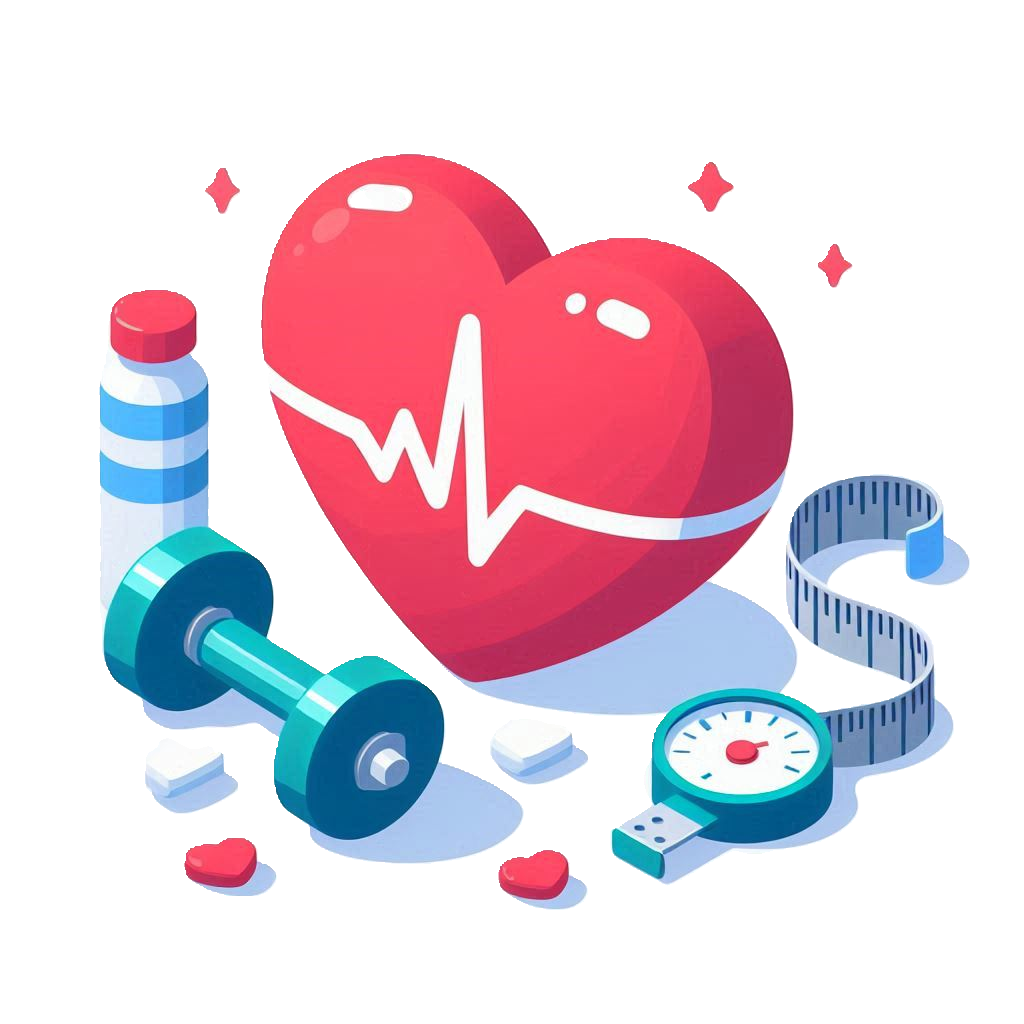
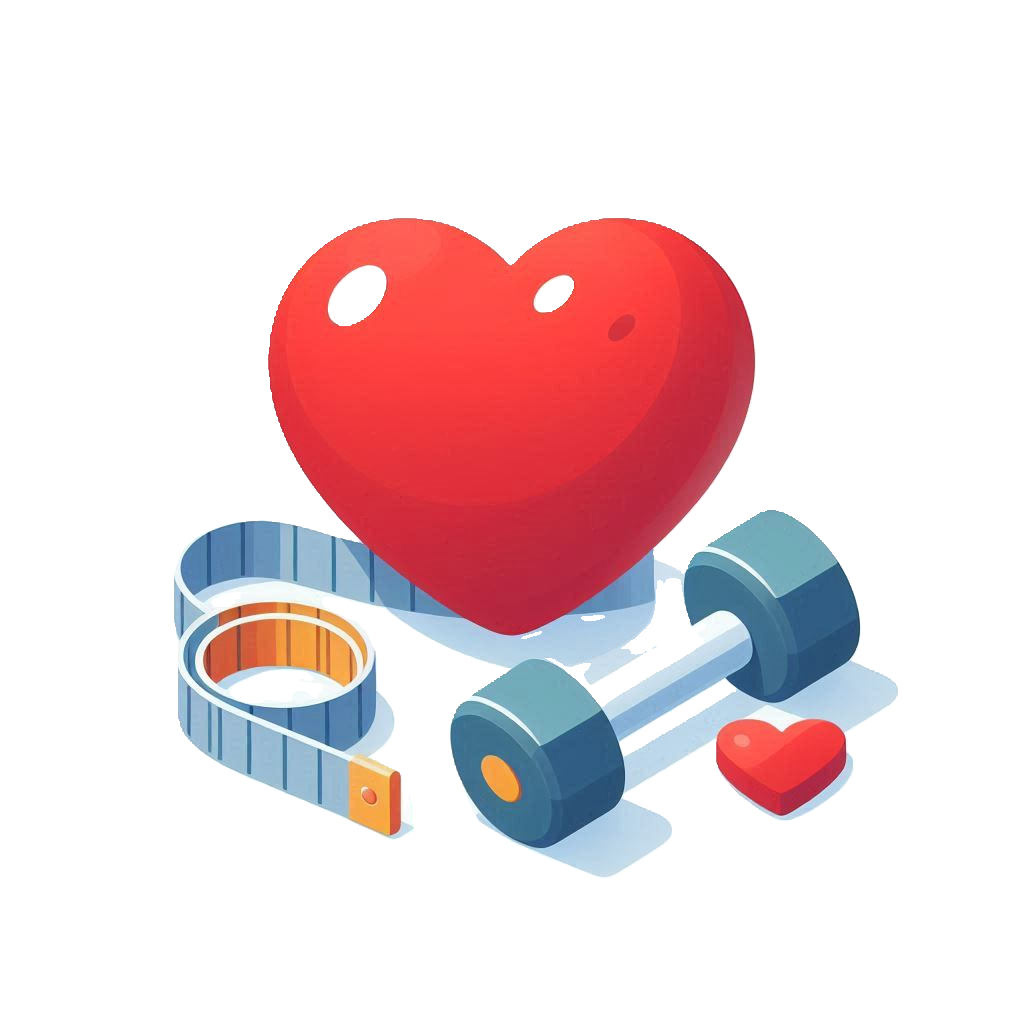
feat: optimize imports

diff --git a/src/components/core/Header.tsx b/src/components/core/Header.tsx
@@ -1,8 +1,8 @@
 'use client';
 
+import { getRecipeByName } from '@actions/get-recipe';
 import { Bars3Icon, HeartIcon, MagnifyingGlassIcon, XMarkIcon } from '@heroicons/react/24/outline';
 import { Recipe } from '@prisma/client';
-import { getRecipeByName } from '@shared/app/actions/get-recipe';
 import Image from 'next/image';
 import Link from 'next/link';
 import { useEffect, useRef, useState } from 'react';
@@ -29,6 +29,10 @@ export default function Header() {
       setTimeout(() => searchInputRef.current?.focus(), 200);
     }
   }, [shouldFocus]);
+
+  const closeDrawer = () => {
+    if (drawerRef.current) drawerRef.current.checked = false;
+  };
 
   return (
     <div className="drawer">
@@ -115,13 +119,7 @@ export default function Header() {
           {searchResults.length > 0 && (
             <div className="flex flex-wrap gap-4 justify-between">
               {searchResults.map(recipe => (
-                <Link
-                  key={recipe.id}
-                  href={`/recipe/${recipe.id}`}
-                  onClick={() => {
-                    if (drawerRef.current) drawerRef.current.checked = false;
-                  }}
-                >
+                <Link key={recipe.id} href={`/recipe/${recipe.id}`} onClick={() => closeDrawer()}>
                   <div key={recipe.id} className="flex flex-col gap-1 max-w-40">
                     <Image
                       src={recipe.imageSrc}
@@ -139,19 +137,33 @@ export default function Header() {
           )}
           {searchResults.length === 0 && (
             <>
-              <ul>
-                <li>
-                  <a className="pl-2 gap-1">
-                    Saved recipes <HeartIcon strokeWidth={2} className="h-5 w-5 text-error" />
-                  </a>
-                </li>
-                <li>
-                  <a className="pl-2">Newest recipes</a>
-                </li>
-                <li>
-                  <a className="pl-2">Crowd&apos;s favs</a>
-                </li>
-              </ul>
+              <section>
+                <p className="text-lg font-semibold">Recipes</p>
+                <ul>
+                  <li>
+                    <a>
+                      Saved recipes <HeartIcon strokeWidth={2} className="h-5 w-5 text-error" />
+                    </a>
+                  </li>
+                  <li>
+                    <a>Newest recipes</a>
+                  </li>
+                  <li>
+                    <a>Crowd&apos;s favs</a>
+                  </li>
+                </ul>
+              </section>
+
+              <section>
+                <p className="text-lg font-semibold">Blog</p>
+                <ul>
+                  <li>
+                    <Link href={`/blog/why-is-protein-important`} onClick={() => closeDrawer()}>
+                      Why is Protein important?
+                    </Link>
+                  </li>
+                </ul>
+              </section>
             </>
           )}
         </div>

diff --git a/src/app/not-found.tsx b/src/app/not-found.tsx
@@ -1,14 +1,31 @@
-import { FaceFrownIcon } from '@heroicons/react/24/outline';
+import Image from 'next/image';
 import Link from 'next/link';
+import NotFoundImage from '../../public/images/not-found.png';
 
 export default function NotFound() {
   return (
-    <div className="flex flex-col flex-grow items-center justify-center h-screen -mt-28 sm:-mt-36">
-      <h2 className="flex items-center font-semibold text-2xl mb-4">
-        Page Not Found &nbsp; <FaceFrownIcon strokeWidth={2} className="h-6 w-6 inline-block" />
-      </h2>
+    <div className="flex flex-col flex-grow items-center justify-center ">
+      <div>
+        <Image
+          src={NotFoundImage}
+          className="rounded-md w-[250px] h-[250px] m-0 lg:hidden"
+          alt="Page not found"
+          width={250}
+          height={250}
+        />
+
+        <Image
+          src={NotFoundImage}
+          className="rounded-md w-[400px] h-[400px] hidden m-0 lg:block"
+          alt="Page not found"
+          width={400}
+          height={400}
+        />
+      </div>
+      <h2 className="font-semibold text-2xl mb-4">Page Not Found</h2>
+
       <Link href="/">
-        <button className="btn btn-sm btn-primary">Return Home</button>
+        <button className="btn btn-neutral">Return Home</button>
       </Link>
     </div>
   );

diff --git a/src/app/blog/why-is-protein-important/page.tsx b/src/app/blog/why-is-protein-important/page.tsx
@@ -12,7 +12,7 @@ export default function WhyIsProteinImportant() {
           <Image
             src={BlogImage}
             className="rounded-md w-[250px] h-[250px] m-0 lg:hidden"
-            alt="Recipe description"
+            alt="Protein foods"
             width={250}
             height={250}
           />
@@ -20,7 +20,7 @@ export default function WhyIsProteinImportant() {
           <Image
             src={BlogImage}
             className="rounded-md w-[400px] h-[400px] hidden m-0 lg:block"
-            alt="Recipe description"
+            alt="Protein foods"
             width={400}
             height={400}
           />
@@ -81,9 +81,11 @@ export default function WhyIsProteinImportant() {
           </ul>
 
           <p>Here&apos;s a quick code snippet to calculate your daily protein needs:</p>
-          <pre>
-            <code>function calculateProtein(weight)</code>
-          </pre>
+
+          <label className="input input-bordered flex items-center gap-2 w-fit">
+            <input type="number" className="w-20" placeholder="Weight" />
+            <span className="font-semibold">kg</span>
+          </label>
         </div>
       </article>
     </div>

diff --git a/src/app/layout.tsx b/src/app/layout.tsx
@@ -1,5 +1,5 @@
-import Footer from '@shared/components/core/Footer';
-import Header from '@shared/components/core/Header';
+import Footer from '@core/Footer';
+import Header from '@core/Header';
 import type { Metadata } from 'next';
 import { Poppins } from 'next/font/google';
 import './globals.css';
@@ -21,11 +21,9 @@ export default function RootLayout({
 }>) {
   return (
     <html lang="en" className="h-full">
-      <body className={inter.className + ' min-h-full bg-[url("/background.webp")] m-0 p-0 box-border'}>
+      <body className={inter.className + ' bg-[url("/background.webp")] m-0 p-0 min-h-full flex flex-col box-border'}>
         <Header />
-        <main className="flex flex-col w-11/12 sm:w-4/5 lg:w-9/12 2xl:w-7/12 mx-auto pb-10 pt-24 sm:pt-28">
-          {children}
-        </main>
+        <main className="w-11/12 sm:w-4/5 lg:w-9/12 2xl:w-7/12 mx-auto pt-24 sm:pt-28 flex-1">{children}</main>
         <Footer />
       </body>
     </html>

diff --git a/src/app/page.tsx b/src/app/page.tsx
@@ -1,7 +1,7 @@
-import Hero from '@shared/components/shared/Hero';
-import RecipeImageCarousel from '@shared/components/shared/RecipeImageCarousel';
-import SubHero from '@shared/components/shared/SubHero';
-import db from '@shared/lib/prisma';
+import db from '@lib/prisma';
+import Hero from '@shared/Hero';
+import RecipeImageCarousel from '@shared/RecipeImageCarousel';
+import SubHero from '@shared/SubHero';
 
 // Revalidate HOME PAGE every 5 minutes
 export const revalidate = 300;

diff --git a/src/app/recipe/[id]/page.tsx b/src/app/recipe/[id]/page.tsx
@@ -7,8 +7,8 @@ import {
   LightBulbIcon,
   RocketLaunchIcon,
 } from '@heroicons/react/24/outline';
-import { formatQuantity } from '@shared/components/shared/models/QuantityUnitTransformations';
-import db from '@shared/lib/prisma';
+import db from '@lib/prisma';
+import { formatQuantity } from '@shared/models/QuantityUnitTransformations';
 import Image from 'next/image';
 import Link from 'next/link';
 import { redirect } from 'next/navigation';

diff --git a/src/components/core/Footer.tsx b/src/components/core/Footer.tsx
@@ -2,7 +2,7 @@ import Image from 'next/image';
 
 export default function Footer() {
   return (
-    <footer className="footer footer-center mt-20 p-4 bg-base-200 text-base-content font-medium">
+    <footer className="footer footer-center mt-24 p-3 md:p-4 bg-base-200 text-base-content font-medium">
       <aside>
         <p>
           Copyright © 2024 - All rights reserved by

diff --git a/src/app/actions/new-recipe.ts b/src/app/actions/new-recipe.ts
@@ -1,7 +1,7 @@
 'use server';
 
+import db from '@lib/prisma';
 import { Complexity, Tag } from '@prisma/client';
-import db from '@shared/lib/prisma';
 
 export async function createNewRecipe(formData: FormData) {
   const ingredients = formData.getAll('ingredients').map(ingredient => JSON.parse(ingredient as string));

diff --git a/src/app/actions/new-ingredient.ts b/src/app/actions/new-ingredient.ts
@@ -1,7 +1,7 @@
 'use server';
 
+import db from '@lib/prisma';
 import { Unit } from '@prisma/client';
-import db from '@shared/lib/prisma';
 
 // TODO: Handle errors
 export async function createNewIngredient(formData: FormData) {

diff --git a/src/components/shared/SubHero.tsx b/src/components/shared/SubHero.tsx
@@ -1,5 +1,5 @@
+import HeroImage from '@public/images/isometric/hero.png';
 import Image from 'next/image';
-import HeroImage from '../../../public/images/isometric/heart.png';
 
 export default function SubHero() {
   return (

diff --git a/src/app/actions/get-recipe.ts b/src/app/actions/get-recipe.ts
@@ -1,6 +1,6 @@
 'use server';
 
-import db from '@shared/lib/prisma';
+import db from '@lib/prisma';
 
 export async function getRecipeByName(searchValue: string) {
   const recipes = await db.recipe.findMany({

diff --git a/src/app/actions/get-ingredients.ts b/src/app/actions/get-ingredients.ts
@@ -1,6 +1,6 @@
 'use server';
 
-import db from '@shared/lib/prisma';
+import db from '@lib/prisma';
 
 export async function getIngredients() {
   const ingredients = await db.ingredient.findMany();
